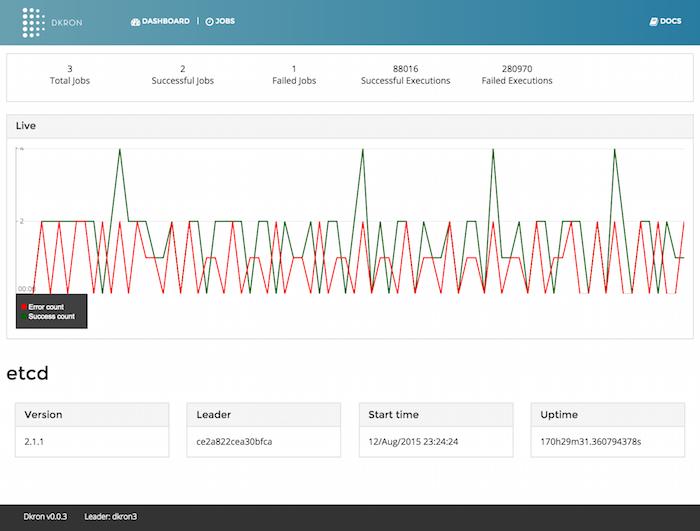
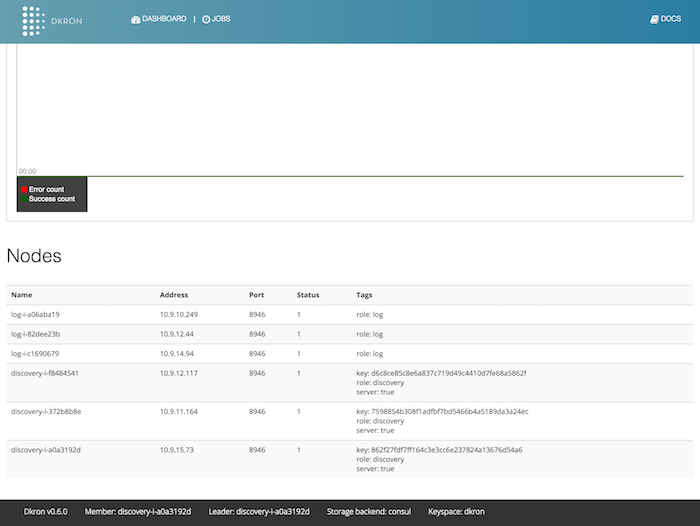
Docs
fixes #37

diff --git a/docs/docs/getting-started.md b/docs/docs/getting-started.md
@@ -4,17 +4,17 @@ Welcome to the intro guide to dkron! This will explain how to setup dkron, how e
 
 ## Introduction
 
-dkron nodes can work in two modes, agents or servers.
+Dkron nodes can work in two modes, agents or servers.
 
 Servers are agents too. You can use servers to run jobs.
 
 The main distinction is that servers order job executions and can be used to schedule jobs.
 
-dkron servers have a leader, the leader is responsible of executing jobs in the cluster.
+Dkron servers have a leader, the leader is responsible of executing jobs in the cluster.
 
-Any dkron agent or server acts as a cluster member and it's available to run scheduled tasks.
+Any Dkron agent or server acts as a cluster member and it's available to run scheduled tasks.
 
-You can choose whether a job is run on a node or nodes by specifying tags and a count of target nodes having this tag do you want a job to run. For example you can specify to run a job at 5:00am in all servers with role=web tag or you can specify to run a job in just one server of having the role=web tag:
+You can choose whether a job is run on a node or nodes by specifying tags and a count of target nodes having this tag do you want a job to run. For example you can specify to run a job at 5:00am in all servers with `role=web` tag or you can specify to run a job in just one server having the `role=web` tag:
 
 ```
 role=web:1
@@ -26,17 +26,31 @@ This gives an unprecedented level of flexibility in runnig jobs across a cluster
 
 All the execution responses will be gathered by the scheduler and stored in the database.
 
+## Requirements
+
+Dkron relies on the key-value store for data storage, you can run an instance of the distributed store in the same machines as Dkron or connect it to your existing cluster.
+
+It can use etcd, Consul or Zookeeper as data stores. To install any of this systems got to their web site:
+
+- etcd: https://coreos.com/etcd/docs/latest/
+- Consul: https://consul.io/intro/getting-started/install.html
+- ZooKeeper: https://zookeeper.apache.org/doc/r3.3.3/zookeeperStarted.html
+
 ## Installation
 
-Simply download the packaged archive for your platform from the downloads page, extract the package to a shared location in your drive, like `/opt/local` and run it from there.
+Simply download the packaged archive for your platform from the [downloads page](https://github.com/victorcoder/dkron/releases), extract the package to a shared location in your drive, like `/opt/local` and run it from there.
+
+There's a `.deb` package available too.
 
 ### Ubuntu
 
-Sample upstart scripts for dkron are included in the `extras` folder
+The recommended way to install Dkron is using the `.deb` package.
+
+Sample upstart scripts for dkron are included in the `debian` folder
 
 ### Debian
 
-Sample init scripts are included in the `extras` folder
+Sample init scripts are included in the `debian` folder
 
 ## Configuration
 
@@ -44,7 +58,6 @@ See the [configuration section](configuration).
 
 ## Usage
 
-dkron relies on the key-value store for data storage, you can run an instance of the distributed store in the same machines as Dkron or connect it to your existing cluster.
 
 By default dkron will try to use a local etcd server running in the same machine and in the default port.
 
